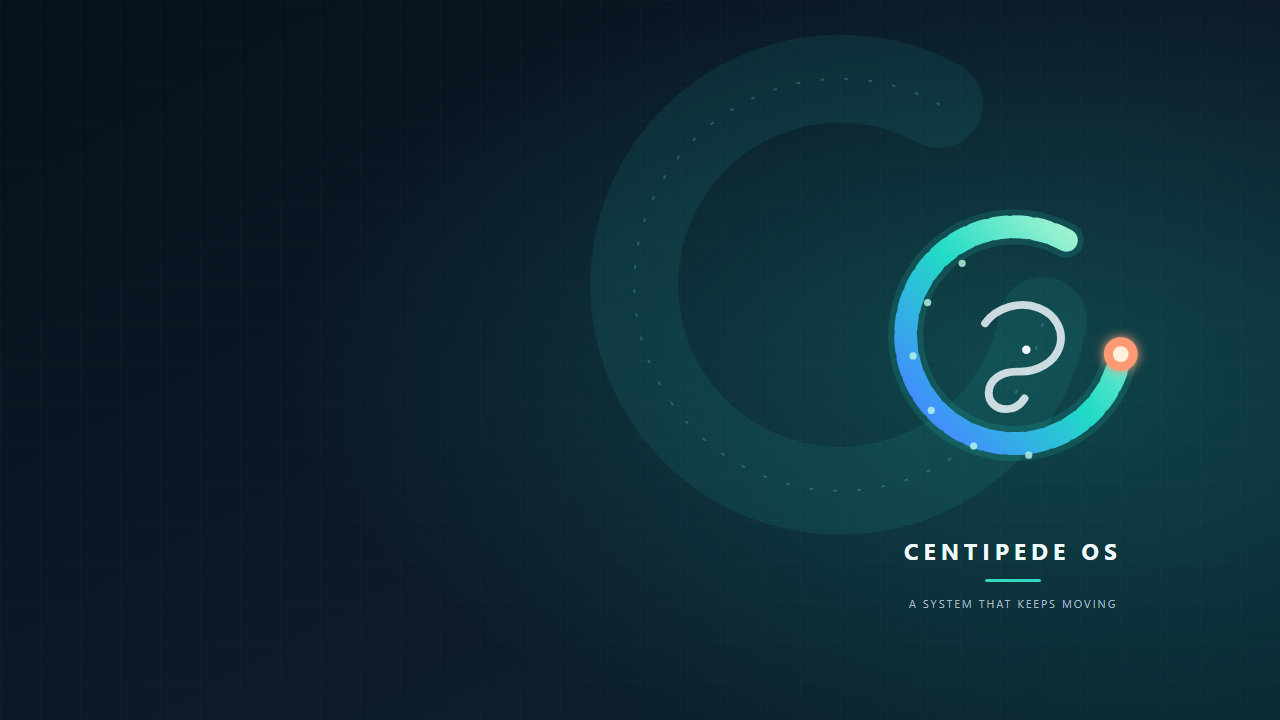
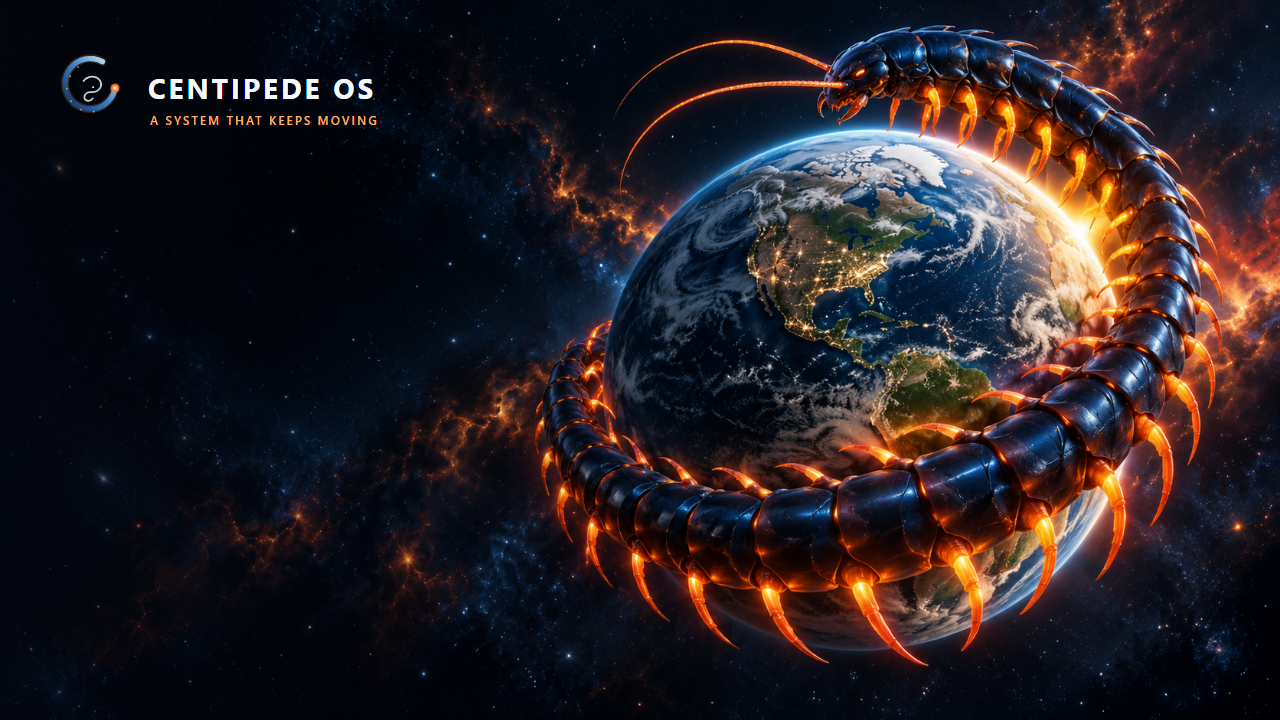
Fix Centipede live branding and mobile release verification

diff --git a/tests/unit/disk_installer_config.test.ts b/tests/unit/disk_installer_config.test.ts
@@ -54,6 +54,7 @@ describe('Centipede OS visual identity', () => {
       'includes.chroot/usr/share/backgrounds/centipede/centipede-mark.svg',
       'includes.chroot/usr/share/backgrounds/centipede/centipede-workspace.svg',
       'includes.chroot/usr/share/backgrounds/centipede/centipede-workspace.png',
+      'includes.chroot/usr/share/backgrounds/centipede/centipede-earth.png',
       'includes.chroot/usr/share/backgrounds/centipede/centipede-menu.svg',
       'includes.chroot/usr/share/backgrounds/centipede/centipede-menu.png',
       'includes.chroot/usr/share/plymouth/themes/centipede/centipede.plymouth',
@@ -73,6 +74,9 @@ describe('Centipede OS visual identity', () => {
     const bootMenu = read(`${config}/hooks/normal/0300-centipede-boot-menu.hook.binary`);
     const installerBrand = read(`${config}/includes.chroot/etc/calamares/branding/centipede/branding.desc`);
     const packageList = read(`${config}/package-lists/centipede.list.chroot`);
+    const wallpaper = read(`${config}/includes.chroot/usr/share/backgrounds/centipede/centipede-workspace.svg`);
+    const menuArtwork = read(`${config}/includes.chroot/usr/share/backgrounds/centipede/centipede-menu.svg`);
+    const bootSplash = read(`${config}/includes.chroot/usr/share/plymouth/themes/centipede/centipede-boot.svg`);
 
     expect(desktop).toContain('/usr/share/backgrounds/centipede/centipede-workspace.png');
     expect(greeter).toContain('background=/usr/share/backgrounds/centipede/centipede-workspace.png');
@@ -83,6 +87,11 @@ describe('Centipede OS visual identity', () => {
     expect(bootMenu).toContain('background_image $prefix/centipede-menu.png');
     expect(bootMenu).toContain('MENU BACKGROUND centipede-menu.png');
     expect(bootMenu).toContain('"Start Centipede OS"');
+    expect(wallpaper).toContain('centipede-earth.png');
+    expect(menuArtwork).toContain('centipede-earth.png');
+    expect(bootSplash).toContain('centipede-earth.png');
+    expect(bootMenu).toContain('splash800x600.png');
+    expect(bootMenu).toContain('stdmenu.cfg');
     expect(installerBrand).toContain('productName: Centipede OS');
     expect(packageList).toContain('plymouth-themes');
   });

diff --git a/tests/reality/branding.test.ts b/tests/reality/branding.test.ts
@@ -27,6 +27,7 @@ describe('Centipede product branding', () => {
     expect(lightdm).toContain('autologin-user=centipede');
     expect(readiness).toContain('After=centipede-web.service');
     expect(readiness).toContain('WantedBy=multi-user.target');
+    expect(readiness).toContain('ExecStart=/usr/bin/python3 /usr/local/libexec/centipede-desktop-readiness.py');
     expect(readiness).not.toContain('After=graphical.target');
     const readinessProbe = readFileSync(join(root, 'packaging/live-build/config/includes.chroot/usr/local/libexec/centipede-desktop-readiness.py'), 'utf8');
     expect(readinessProbe).toContain('def report_serial(message):');
@@ -37,11 +38,11 @@ describe('Centipede product branding', () => {
     expect(bootMenu).toContain('distro gfxboot splash');
   });
 
-  it('sets the live account identity and starts the desktop from the user profile', () => {
+  it('sets the live account identity and starts the desktop with system-wide autostart', () => {
     const liveConfig = readFileSync(join(root, 'packaging/live-build/config/includes.chroot/etc/live/config.conf.d/centipede.conf'), 'utf8');
-    const userAutostart = readFileSync(join(root, 'packaging/live-build/config/includes.chroot/etc/skel/.config/autostart/centipede-desktop.desktop'), 'utf8');
+    const globalAutostart = readFileSync(join(root, 'packaging/live-build/config/includes.chroot/etc/xdg/autostart/centipede-desktop.desktop'), 'utf8');
     expect(liveConfig).toContain('LIVE_USER_FULLNAME="Centipede OS"');
     expect(liveConfig).toContain('LIVE_USERNAME="centipede"');
-    expect(userAutostart).toContain('Exec=/usr/local/bin/centipede-desktop');
+    expect(globalAutostart).toContain('Exec=/usr/local/bin/centipede-desktop');
   });
 });

diff --git a/scripts/verify_android_signature.py b/scripts/verify_android_signature.py
@@ -1,0 +1,49 @@
+"""Fail-closed Android publisher identity verification across apksigner formats."""
+
+import argparse
+import os
+import re
+import subprocess
+
+
+FINGERPRINT_LINE = re.compile(
+    r"^(?:V[1-4] )?Signer[^\n]*certificate SHA-256 digest:\s*([0-9a-fA-F:]{64,95})\s*$",
+    re.MULTILINE,
+)
+
+
+def normalize_fingerprint(value: str) -> str:
+    normalized = re.sub(r"[:\s]", "", value).lower()
+    if not re.fullmatch(r"[0-9a-f]{64}", normalized):
+        raise ValueError("Invalid SHA-256 publisher certificate fingerprint")
+    return normalized
+
+
+def verify_identity(output: str, expected: str) -> str:
+    pinned = normalize_fingerprint(expected)
+    actual = {normalize_fingerprint(value) for value in FINGERPRINT_LINE.findall(output)}
+    if actual != {pinned}:
+        raise ValueError("APK publisher certificate does not match the pinned identity")
+    return pinned
+
+
+def main() -> None:
+    parser = argparse.ArgumentParser()
+    parser.add_argument("apksigner")
+    parser.add_argument("apk")
+    args = parser.parse_args()
+    result = subprocess.run(
+        [args.apksigner, "verify", "--print-certs", args.apk],
+        capture_output=True,
+        text=True,
+        check=True,
+    )
+    fingerprint = verify_identity(
+        result.stdout,
+        os.environ.get("ANDROID_EXPECTED_CERT_SHA256", ""),
+    )
+    print(f"Verified pinned Android publisher certificate SHA-256: {fingerprint}")
+
+
+if __name__ == "__main__":
+    main()

diff --git a/scripts/test_android_signature.py b/scripts/test_android_signature.py
@@ -1,0 +1,38 @@
+import unittest
+
+from verify_android_signature import verify_identity
+
+
+class AndroidSignatureTests(unittest.TestCase):
+    def test_accepts_supported_apksigner_labels_for_the_pinned_certificate(self):
+        labels = (
+            "V2 Signer:",
+            "V3 Signer:",
+            "Signer #1",
+            "Signer (minSdkVersion=24, maxSdkVersion=32)",
+            "Signer (minSdkVersion=33, maxSdkVersion=2147483647)",
+        )
+        for label in labels:
+            with self.subTest(label=label):
+                output = f"{label} certificate SHA-256 digest: {'a' * 64}\n"
+                self.assertEqual(verify_identity(output, "A" * 64), "a" * 64)
+
+    def test_rejects_missing_mismatched_or_multiple_certificates(self):
+        outputs = (
+            "",
+            f"Signer #1 certificate SHA-256 digest: {'b' * 64}\n",
+            f"Signer #1 certificate SHA-256 digest: {'a' * 64}\n"
+            f"Signer #2 certificate SHA-256 digest: {'b' * 64}\n",
+        )
+        for output in outputs:
+            with self.subTest(output=output):
+                with self.assertRaises(ValueError):
+                    verify_identity(output, "a" * 64)
+
+    def test_rejects_malformed_expected_fingerprint(self):
+        with self.assertRaises(ValueError):
+            verify_identity("Signer #1 certificate SHA-256 digest: " + "a" * 64, "bad")
+
+
+if __name__ == "__main__":
+    unittest.main()

diff --git a/docs/SHIP_REALITY_MATRIX.md b/docs/SHIP_REALITY_MATRIX.md
@@ -10,11 +10,11 @@
 | Target | What actually exists | Gate | Publication status |
 |---|---|---|---|
 | Desktop web bundle | React/Vite app; tarball published in v1.0.0 | BUILDABLE | The updated desktop design is on `main`, but only the earlier bundle is published. |
-| Bootable ISO | Hybrid amd64 live ISO with Centipede artwork and a guarded Calamares installer in the candidate source | BUILDABLE | v1.0.0 image is public. RC4 and RC5 were withheld after QEMU showed an upstream BIOS splash and black live screen; the next candidate needs a new boot and visual review. |
+| Bootable ISO | Hybrid amd64 live system with a guarded Calamares installer in candidate source | BUILDABLE | v1.0.0 image is public. RC4–RC6 were withheld: RC6 still displayed Debian's BIOS splash and a black desktop. Branding and desktop-startup fixes are in progress; no new image is approved. |
 | Live USB | Same hybrid ISO bytes as the ISO asset | BUILDABLE | v1.0.0 image is public. Updated output is validated but unpublished. Flashing it erases the selected USB. |
 | VM image | QEMU qcow2 virtual optical-media image; structural and guest boot checks pass | BUILDABLE | v1.0.0 image is public. Updated output is validated but unpublished. Attach it as virtual CD media; it is not an installed hard disk. |
 | Docker image | Centipede web app container; HTTP/CSS/health check passed | BUILDABLE | v1.0.0 archive is public. The updated image is CI-only and is not pushed to a registry. It does not include Kingdom. |
-| Android | Capacitor project; debug APK built and verified in CI | BLOCKED for stable distribution | No signed release APK. Signing keystore, pinned certificate fingerprint, and explicit workflow enablement are needed. |
+| Android | Publisher-signed Capacitor APK; pinned certificate check and emulator smoke test are configured | BUILDABLE | RC6 built and platform-verified the APK but the legacy fingerprint parser rejected its current signer label. A strict parser is now tested locally; the next tagged run must pass before any APK is published. |
 | iOS | Capacitor project; iOS Simulator app launched in CI | BLOCKED for device distribution | Simulator build is not installable on iPhone. Apple distribution signing/provisioning and explicit enablement are needed. |
 | Kingdom service | Separate project and deployment | EXTERNAL | No live Kingdom deployment was connected for the platform build. |
 
@@ -22,7 +22,7 @@
 
 The current branch adds Calamares to the Centipede live image as a guided disk installer. Its configuration requires an explicit target choice, starts without a partition operation preselected, displays a final install confirmation, requires 32 GiB of storage and 2 GiB of RAM, and attempts to make the live boot disk read-only before Calamares enumerates install targets. If source-media identification or write protection fails, the installer exits without opening Calamares.
 
-The candidate has custom Centipede artwork and identity configuration across its boot menu, startup splash, login screen, desktop, and installer. RC4 and RC5 were withheld after their exact-image screenshots showed upstream boot artwork and a black live screen. Current corrections need a fresh build and screenshot verification before another preview is published. The installer image must pass a virtual-machine install onto a separate disposable target disk, reboot into the installed Centipede system, verify that the live boot disk was never writable/selected, and pass the existing BIOS/UEFI boot matrix before `v1.0.1` can be published as stable. The current workflow still proves image build and live boot only; no installation result has been recorded yet. Do not use the candidate image to erase or install onto a real drive.
+The candidate is being updated with the requested Centipede-over-Earth artwork and consistent logo/title treatment. RC4–RC6 were withheld after exact-image review showed Debian boot art and a desktop that did not launch the Centipede app. Corrections need a fresh build plus BIOS/UEFI screenshots and a successful desktop readiness marker before another preview is published. Calamares is present, but the image must also pass installation onto a separate disposable VM disk, reboot, prove the live boot disk was never writable/selected, and pass the BIOS/UEFI matrix before `v1.0.1` can be stable. No installed-system result has been recorded. Do not use a candidate installer on a real drive.
 
 The live system and current installer do not implement automatic graphics fallback, low-memory mode, diagnostics export, interrupted-install recovery, installed-system updates, or update rollback. Review the [disk installation guide](INSTALLATION_GUIDE.md) and [installer limits](DISK_INSTALLATION_GUIDE.md); back up data before any install.
 

diff --git a/docs/PLATFORM_BUILD_GUIDE.md b/docs/PLATFORM_BUILD_GUIDE.md
@@ -1,6 +1,6 @@
 # Platform build and signing guide
 
-The `Centipede platform builds` workflow builds the OS disk formats and container on GitHub-hosted Linux. It builds a debug Android APK and iOS Simulator app for branch validation. A version tag runs signed mobile jobs only when the corresponding `CENTIPEDE_ENABLE_SIGNED_ANDROID_RELEASE` or `CENTIPEDE_ENABLE_SIGNED_IOS_RELEASE` repository variable is set to `true`. Those targets remain BLOCKED and are omitted from the release until signing credentials and target configuration are ready. The stable release waits for every BUILDABLE target and publishes nothing if a required build or integrity check fails.
+The `Centipede platform builds` workflow builds the OS image formats and container on GitHub-hosted Linux. It builds a debug Android APK and iOS Simulator app for branch validation. A version tag runs signed mobile jobs only when the corresponding `CENTIPEDE_ENABLE_SIGNED_ANDROID_RELEASE` or `CENTIPEDE_ENABLE_SIGNED_IOS_RELEASE` repository variable is set to `true`. A release waits for every BUILDABLE target and publishes nothing if a required build or integrity check fails. See [MOBILE_SIGNING.md](MOBILE_SIGNING.md) for owner-controlled credential setup; the Android fingerprint parser fix needs a fresh tagged verification, and iPhone device signing remains blocked until Apple credentials exist.
 
 ## Stable Android APK
 
@@ -30,7 +30,7 @@ TestFlight/App Store Connect upload is not part of the GitHub Release workflow. 
 
 ## OS images and Docker
 
-CI uses Debian live-build to generate a bootable hybrid ISO. The same bytes serve as the ISO download and Live USB source. The QEMU target is a qcow2 virtual optical-media image derived from the ISO; attach it as a virtual CD-ROM, not as an installed hard-disk image. Current `main` runs Linux, LightDM, a maximized Chromium desktop window, the local web app, and checks required everyday-app executables before emitting `CENTIPEDE_DESKTOP_READY`. The refreshed XFCE Applications menu provides Chromium, LibreOffice Writer/Calc, Thunderbird, and VLC. These updated images passed the platform workflow on PR commit `1f99f79`; they are not yet published. The public v1.0.0 release still has the previous desktop. The image does not include automatic Debian firmware discovery or a broad hardware firmware set, so Wi-Fi and some graphics devices may need separately supplied firmware. It does not install Kingdom or grant Centipede host-control capabilities. See [the beginner USB guide](INSTALLATION_GUIDE.md) for writing and starting the live image. The image has no disk installer and is not persistent across restarts. The ISO builder now requests both legacy BIOS and UEFI boot paths, signed UEFI components, an internal SHA-256 file list, non-free firmware availability, and a separate Safe Graphics boot entry using `nomodeset`. CI still needs to prove each boot mode before this candidate is publishable.
+CI uses Debian live-build with Centipede branding and licensing notices to generate a bootable hybrid ISO. The same bytes serve as the ISO download and Live USB source. The QEMU target is a qcow2 virtual optical-media image derived from the ISO; attach it as a virtual CD-ROM, not as an installed hard-disk image. The live desktop is intended to run LightDM, a maximized Chromium window, the local web app, and checks required everyday-app executables before emitting `CENTIPEDE_DESKTOP_READY`. The XFCE Applications menu provides Chromium, LibreOffice Writer/Calc, Thunderbird, and VLC. The candidate also contains a guided Calamares disk installer, but no candidate has passed a separate-target install/reboot and source-media protection test. Until that gate passes, use the image only in live mode or a disposable virtual machine; live-session files do not persist across restarts. The image does not include a broad hardware firmware set, so Wi-Fi and some graphics devices may need separately supplied firmware. It does not install Kingdom or grant Centipede host-control capabilities. See [the beginner USB guide](INSTALLATION_GUIDE.md) for writing and starting the live image. The ISO builder requests both legacy BIOS and UEFI boot paths, signed UEFI components, an internal SHA-256 list, non-free firmware availability, and a separate Safe Graphics boot entry using `nomodeset`; RC6 still needs a fresh exact-image boot and visual review.
 
 The Docker job builds and runs the image, checks the web page, bundled CSS, and container health status, then attaches a loadable `linux/amd64` Docker archive. Load it with `docker load -i centipede-docker-image-1.0.0.tar` (replace the version with the release version). The image is not pushed to a container registry by this workflow.
 

diff --git a/docs/BRANDING.md b/docs/BRANDING.md
@@ -1,11 +1,11 @@
 # Centipede OS visual identity
 
-The operating system's visible identity is Centipede OS across the boot menus, startup splash, login screen, desktop, and guided installer. The desktop uses a calm, dark classic background, with Centipede identity carried by the boot menu, splash, login, panel, and applications. The live environment uses a static artwork-based splash so animation or accelerated graphics are not required to show the brand.
+The operating system's visible identity is Centipede OS across the boot menus, startup splash, login screen, desktop, and guided installer. Its default wallpaper follows the requested cinematic deep-space scene: a dark metallic centipede with orange highlights wrapped around Earth. The same Centipede mark and wordmark carry through the boot menu and splash, installer, panel, and applications. The live environment uses static artwork so graphics acceleration is not required to show the brand.
 
 | Surface | Source | Installed use |
 |---|---|---|
 | Mark | `packaging/live-build/config/includes.chroot/usr/share/backgrounds/centipede/centipede-mark.svg` | Installer and application icon |
-| Desktop | `centipede-workspace.svg` | Quiet, dark default XFCE wallpaper; product identity remains in the login, panel, and applications |
+| Desktop | `centipede-workspace.svg` and `centipede-earth.png` | Earth-and-centipede default wallpaper with a subtle Centipede OS wordmark |
 | Boot menu | `centipede-menu.svg` | GRUB and legacy BIOS menu background |
 | Startup | `centipede-boot.svg` and `usr/share/plymouth/themes/centipede/` | Plymouth splash |
 | Installer | `etc/calamares/branding/centipede/branding.desc` | Centipede product name and logo |
@@ -18,4 +18,4 @@ node scripts/render-brand-assets.mjs
 
 The live-image build fails if required artwork or Centipede identity configuration is missing. The boot-menu hook also fails if a generated visible boot label still identifies the base distribution. Linux components and package metadata retain machine-readable compatibility fields and required upstream legal notices; those fields are not product branding.
 
-The `v1.0.1-rc.4` and `v1.0.1-rc.5` images were withheld after QEMU showed Debian’s BIOS splash and a black live screen. The current branch forces the branded menu renderer in the root BIOS configuration, sets the live account name and classic dark desktop defaults, and reports desktop readiness failures in the boot log. A fresh exact-image BIOS/UEFI boot and screenshot review must pass before publication. The stable download remains v1.0.0. Required upstream license notices and machine-readable compatibility metadata remain in the image.
+The `v1.0.1-rc.4`, `rc.5`, and `rc.6` images were withheld after QEMU showed Debian's BIOS splash and a black live screen. The current branch fixes the nested Syslinux splash override, installs a system-wide desktop autostart, invokes the readiness probe through Python, and records the updated Earth artwork and Centipede wordmark. Exact-image BIOS/UEFI screenshots and the desktop readiness marker still must pass before publication. The stable download remains v1.0.0. Required upstream license notices and machine-readable compatibility metadata remain in the image.

diff --git a/docs/CURRENT_REALITY.md b/docs/CURRENT_REALITY.md
@@ -4,9 +4,9 @@
 
 ## Current release update — 2026-10-06
 
-The current public stable release is [`v1.0.0`](https://github.com/wests-cmd/Centipede-os/releases/tag/v1.0.0). Release candidate [`v1.0.1-rc.3`](https://github.com/wests-cmd/Centipede-os/releases/tag/v1.0.1-rc.3) is published but is not the recommended download. Candidates `v1.0.1-rc.4` and `v1.0.1-rc.5` were stopped before publication. QEMU showed Debian’s BIOS splash/menu, then a black screen with only a pointer; neither candidate reached the desktop readiness marker.
+The current public stable release is [`v1.0.0`](https://github.com/wests-cmd/Centipede-os/releases/tag/v1.0.0). Release candidate [`v1.0.1-rc.3`](https://github.com/wests-cmd/Centipede-os/releases/tag/v1.0.1-rc.3) is published but is not the recommended download. Candidates `v1.0.1-rc.4`, `rc.5`, and `rc.6` were stopped before publication. RC6's QEMU screenshot still showed Debian's raster boot splash and an XFCE panel over a black workspace; it did not reach the readiness marker. The signed Android build completed, but the release fingerprint parser did not recognize the current `apksigner` label, so the fail-closed publication gate correctly withheld all assets.
 
-The current branch forces the Centipede BIOS menu renderer and artwork at the root config, applies Centipede’s live-account name and classic dark wallpaper, and collects LightDM and desktop-launch diagnostics in the boot test log. These changes still need a fresh exact-image build and visual BIOS/UEFI review. Do not publish the candidate until those checks pass. The installer remains live-preview-only until it has been installed onto a separate disposable VM disk, rebooted, and passed source-media protection checks. Android signed APK and iOS device IPA remain blocked because distribution signing is not configured.
+The current unreleased branch replaces the late-loaded Debian Syslinux splash with Centipede artwork, uses the Earth-and-centipede wallpaper through boot, desktop, and installer surfaces, starts the browser from system-wide XFCE autostart, and invokes the desktop readiness checker explicitly through Python. It also adds a strict parser for supported `apksigner` signer labels. These changes still need a fresh exact-image build, visual BIOS/UEFI review, and tagged signing check. The installer remains preview-only until it has been installed onto a separate disposable VM disk, rebooted, and passed source-media protection checks. Android signing credentials are configured, but no verified APK has been published; a fresh tagged workflow must pass. iOS device signing remains blocked until Apple-issued credentials are configured.
 
 The target descriptions in the historical sections below record earlier audits and CI runs; for current downloadable artifacts and gate status, use this update and the linked live [ship reality matrix](SHIP_REALITY_MATRIX.md).
 

diff --git a/docs/MOBILE_SIGNING.md b/docs/MOBILE_SIGNING.md
@@ -1,0 +1,55 @@
+# Prepare mobile release signing
+
+Mobile signing material belongs to the project owner. Do not commit a keystore, certificate, provisioning profile, password, or private API key to this repository.
+
+## Android APK
+
+Create one long-lived release key on a trusted machine. Keep the keystore and its passwords backed up securely; future APK updates must use the same signing key.
+
+```sh
+keytool -genkeypair -v \
+  -keystore centipede-release.jks \
+  -keyalg RSA -keysize 2048 -validity 10000 \
+  -alias centipede-release
+```
+
+In GitHub repository **Settings → Secrets and variables → Actions**, add these secrets:
+
+- `ANDROID_KEYSTORE_BASE64`: base64 encoding of `centipede-release.jks`.
+- `ANDROID_KEY_ALIAS`: `centipede-release` (or the alias you created).
+- `ANDROID_KEYSTORE_PASSWORD`: the keystore password.
+- `ANDROID_KEY_PASSWORD`: the alias password.
+
+Then add repository variable `ANDROID_EXPECTED_CERT_SHA256` with the certificate fingerprint reported by:
+
+```sh
+apksigner verify --print-certs app-release.apk
+```
+
+Set repository variable `CENTIPEDE_ENABLE_SIGNED_ANDROID_RELEASE` to `true` only after the protected secrets and pinned fingerprint are in place. CI verifies the APK signature and pinned certificate before publishing. A mismatch stops the entire release; never change the pinned value just to make a build pass.
+
+PowerShell can encode the keystore for the Actions secret without putting it in the repository:
+
+```powershell
+[Convert]::ToBase64String([IO.File]::ReadAllBytes('.\centipede-release.jks')) | Set-Clipboard
+```
+
+Paste that value directly into the GitHub secret field. Avoid saving the base64 output to a tracked file.
+
+## iPhone IPA
+
+An installable iPhone IPA needs an Apple Developer account, an Apple Distribution certificate exported as a password-protected `.p12`, and a provisioning profile matching bundle ID `com.westscmd.centipedeos`. The simulator app built in branch CI is not installable on a physical iPhone.
+
+After creating the certificate and profile in the owner's Apple Developer account, add these GitHub Actions secrets:
+
+- `IOS_CERTIFICATE_BASE64`
+- `IOS_CERTIFICATE_PASSWORD`
+- `IOS_PROVISIONING_PROFILE_BASE64`
+- `IOS_TEAM_ID`
+- `IOS_PROFILE_NAME`
+
+Set repository variable `CENTIPEDE_ENABLE_SIGNED_IOS_RELEASE` to `true` only when those credentials are configured and the profile is valid. Apple credentials and App Store Connect/TestFlight publishing are not supplied by this repository. Never generate pretend credentials or commit certificate/private-key files.
+
+## Release behavior
+
+Signed Android and iOS device outputs are included only after their protected-signing workflows pass. Missing or invalid credentials fail closed. Simulator builds are test artifacts and must not be described as phone-installable releases.
